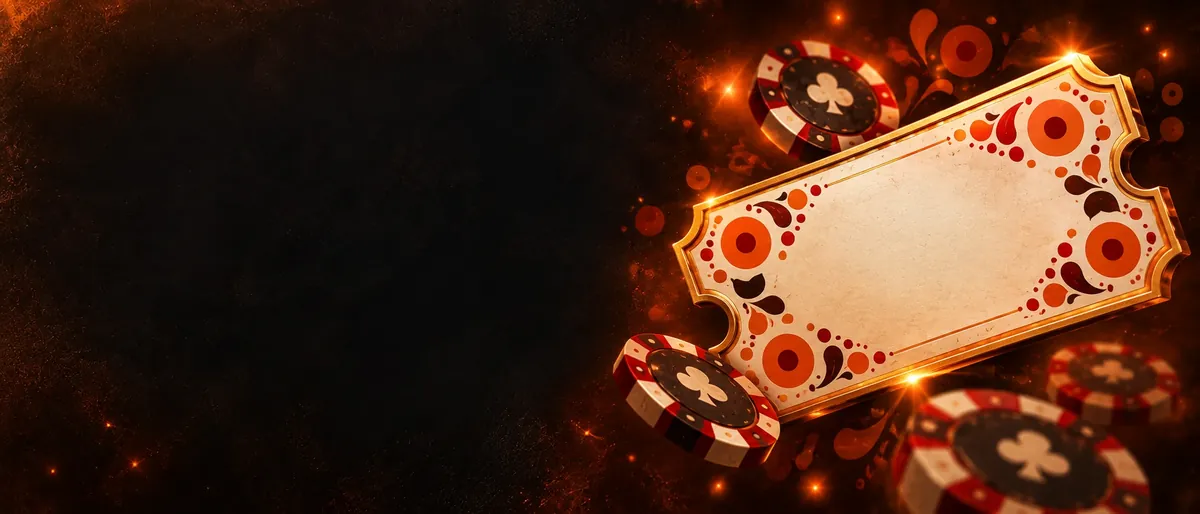
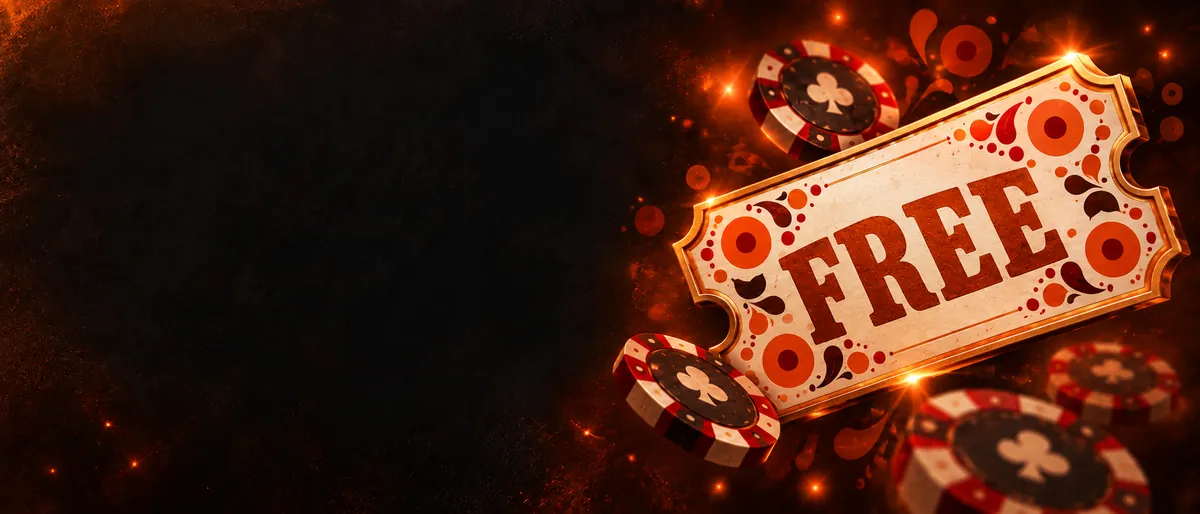
Карточки турниров: новое оформление «Мафия» и обновлённая картинка фриролла

diff --git a/index.html b/index.html
@@ -206,7 +206,7 @@ html{touch-action:manipulation;-webkit-text-size-adjust:100%}
   mask-composite:intersect;
 }
 
-/* Карточки с картинкой — «Джокер», «Нокаут», «Феникс», «Double Life», «Фриролл» (card_art в
+/* Карточки с картинкой — «Джокер», «Нокаут», «Феникс», «Double Life», «Фриролл», «Мафия» (card_art в
    tournaments, выбирается в tournaments.html). Слева на картинке тёмное поле
    под текст, справа сюжет. Градиент поверх — страховка: на узкой карточке
    картинка обрезается слева, и сюжет подъезжает под пилюли. Карточка тёмная
@@ -216,6 +216,7 @@ html{touch-action:manipulation;-webkit-text-size-adjust:100%}
 .art-phoenix{--art:url("assets/art/phoenix.webp");--art-shift:0px}
 .art-doublelife{--art:url("assets/art/doublelife.webp");--art-shift:-64px}
 .art-freeroll{--art:url("assets/art/freeroll.webp");--art-shift:-40px}
+.art-mafia{--art:url("assets/art/mafia.webp");--art-shift:-40px}
 /* Финал месяца — не card_art, а флаг is_monthly_final: картинка идёт сама. */
 .art-final{--art:url("assets/art/final.webp");--art-shift:-40px}
 .tcard.art{
@@ -2053,7 +2054,7 @@ document.addEventListener("touchmove", e => {
   }
 
   // Оформления карточки с картинкой — те же значения, что в check миграций 017/018/028.
-  const CARD_ART = ["joker", "knockout", "phoenix", "doublelife", "freeroll"];
+  const CARD_ART = ["joker", "knockout", "phoenix", "doublelife", "freeroll", "mafia"];
   // Финал месяца оформляется всегда своей картинкой — поверх выбранной.
   // В строке истории флага нет, поэтому финал узнаём по турниру из расписания.
   const isFinal = (t) => !!(t?.is_monthly_final

diff --git a/tournaments.html b/tournaments.html
@@ -115,7 +115,7 @@ body.tournamentsPage #screenForm{margin-top:16px}
     <div class="field"><label>Особенности — по одной в строке</label>
       <textarea id="fFeatures" rows="3" placeholder="BB ante&#10;Один реентри&#10;Аддон 2000 фишек"></textarea></div>
     <!-- Оформление карточки в приложении: картинка справа, текст слева.
-         Значения — те же, что в check миграций 017/018/028 и CARD_ART в index.html. -->
+         Значения — те же, что в check миграций 017/018/028/032 и CARD_ART в index.html. -->
     <div class="field"><label>Карточка в приложении</label>
       <select id="fCardArt">
         <option value="">Обычная</option>
@@ -124,6 +124,7 @@ body.tournamentsPage #screenForm{margin-top:16px}
         <option value="phoenix">Феникс</option>
         <option value="doublelife">Double Life</option>
         <option value="freeroll">Фриролл — с билетом</option>
+        <option value="mafia">Мафия — человек в маске</option>
       </select></div>
     <!-- Финал месяца: в приложении виден, но кнопки «Записаться» нет —
          состав набирает админ через «+ Игрок». Запрет держит и vp_app_register
